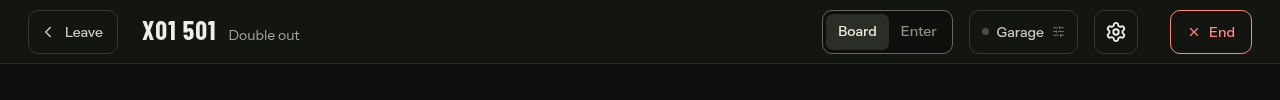
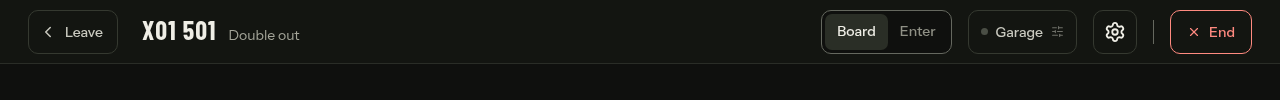
fix(match): even spacing in the desktop top bar, divider before End

Changed region(s): [[0.625, 0.21, 0.9062, 0.42]]

diff --git a/backend/frontend/src/lib/components/GameHeader.svelte b/backend/frontend/src/lib/components/GameHeader.svelte
@@ -126,7 +126,7 @@
       {#if meta}<span class="text-[13px] xl:text-[14px] text-text-muted truncate">{meta}</span>{/if}
     </div>
 
-    <div class="ml-auto flex items-center gap-[10px] xl:gap-4 shrink-0">
+    <div class="ml-auto flex items-center gap-3 xl:gap-4 shrink-0">
       {#if showViewToggle}
         <div
           class="h-11 box-border flex items-center p-[3px] bg-bg rounded-[10px] border border-line-strong"
@@ -170,7 +170,8 @@
       </Button>
 
       {#if canEnd}
-        <Button variant="destructive" size="md" onclick={onend} class="ml-2 xl:ml-4">
+        <span class="w-px h-6 bg-line-strong" aria-hidden="true"></span>
+        <Button variant="destructive" size="md" onclick={onend}>
           <X size={14} />
           {endMode === 'end' ? 'End' : 'Leave'}
         </Button>
